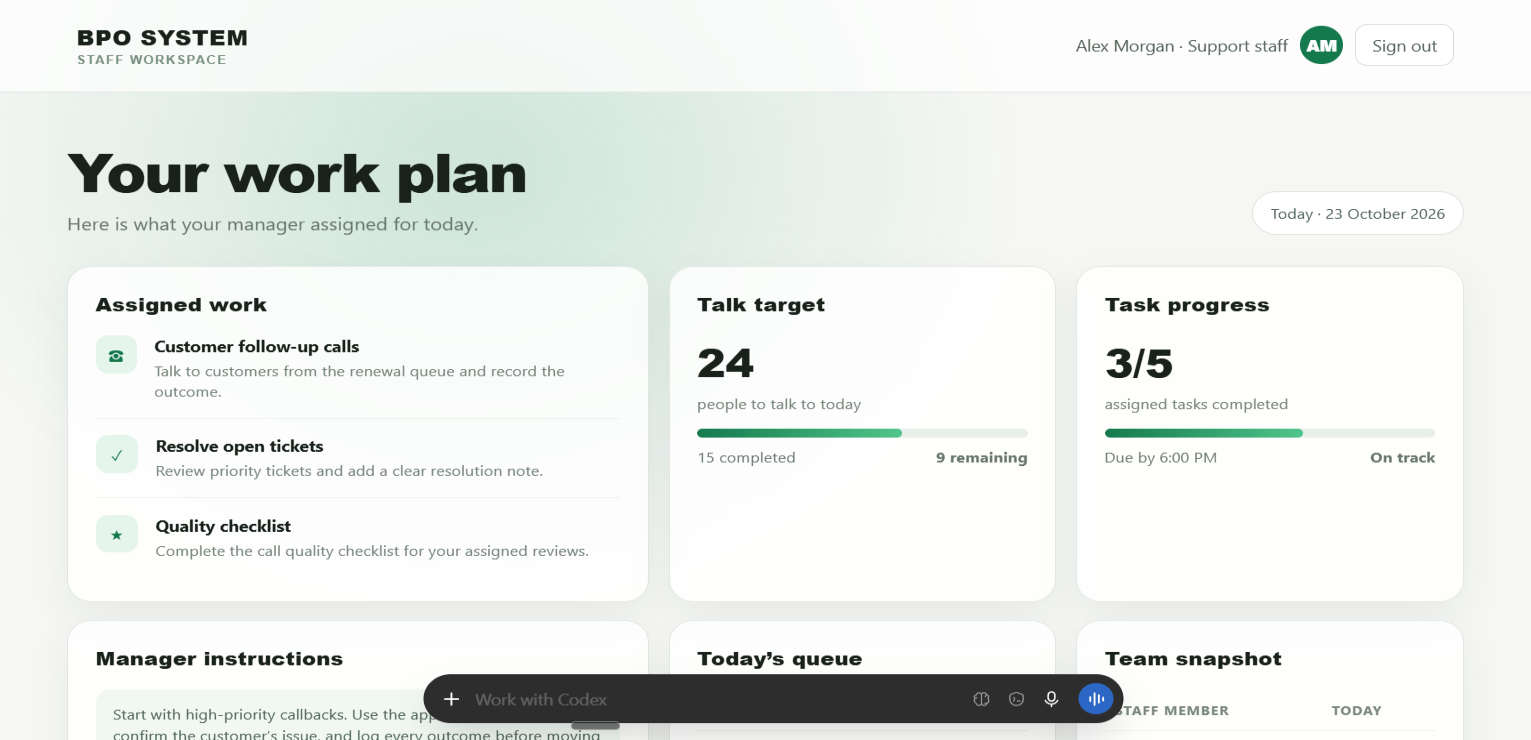
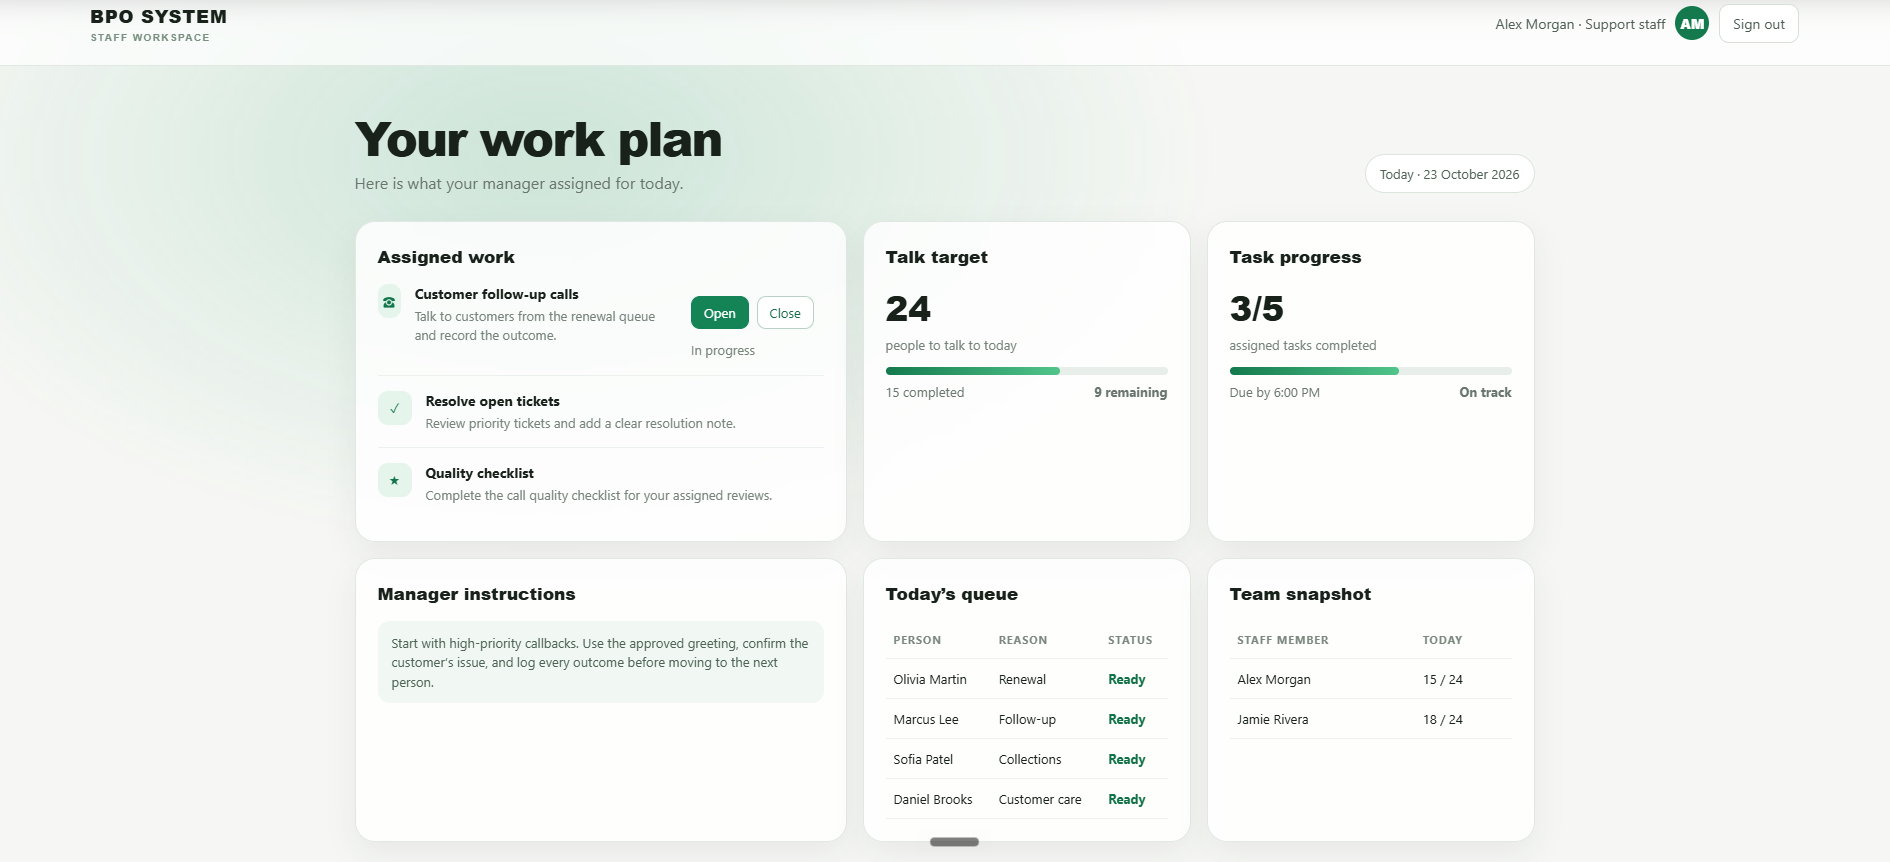
Refresh README screenshots and protect staff workspace

diff --git a/README.md b/README.md
@@ -40,4 +40,10 @@ mongodb://127.0.0.1:27017/bpo_system
 
 Store staff profiles, approval status, assignments, calls, tickets, attendance, billing, SLA records, complaints, recruitment records, and performance data in MongoDB collections. A server-side API should read and write these collections; browser local storage is only a temporary fallback for the static demo.
 
+## Excel exports
+
+The admin overview includes **Download data** on each staff member card. It downloads an Excel-compatible `.xls` file containing the staff profile and assigned data counts. The export includes calls, contacts, and campaigns for that staff member. The completion percentage is shown in the staff workspace task progress card (for example, `3/5` tasks completed and `60%`); the Excel file contains the underlying counts so the same percentage can be calculated in a spreadsheet.
+
+Staff pages are protected by the sign-in session. Opening `/staff.html` directly redirects to `/login` until the staff member submits the login form.
+
 For MongoDB Atlas, replace the local URI with the connection string provided by your Atlas cluster and keep the URI in a server-side environment variable rather than committing credentials to GitHub.
